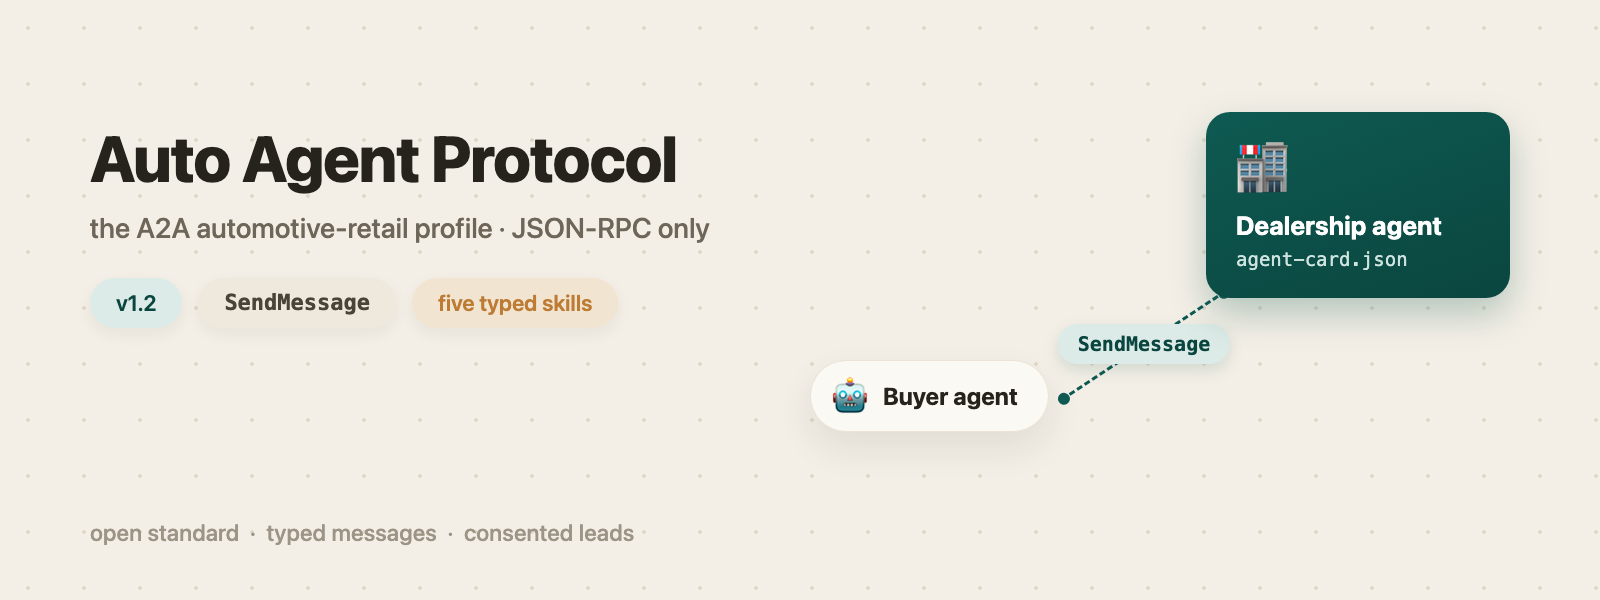
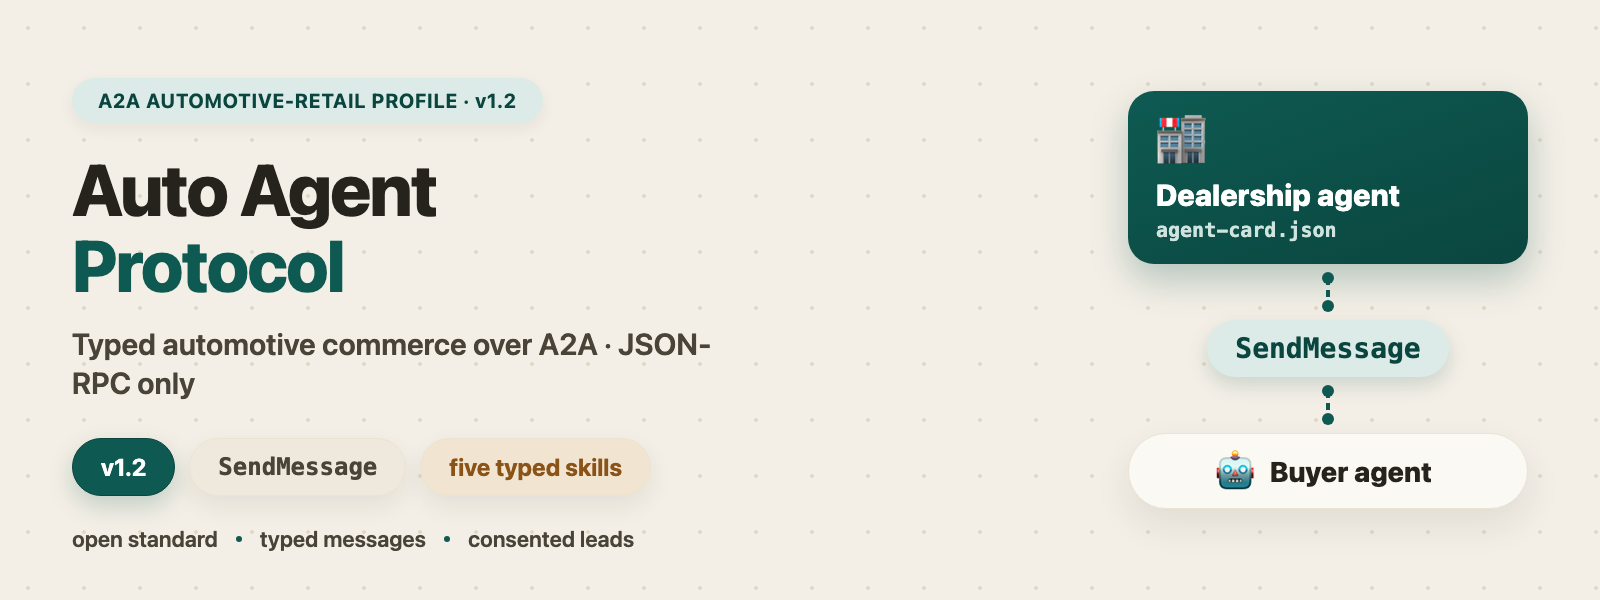
docs(v1.2): drop leftover inventory-class prose for vehicle_type

diff --git a/tools/img-src/aap-hero-banner.html b/tools/img-src/aap-hero-banner.html
@@ -14,39 +14,64 @@
     color: #26231c;
     position: relative;
   }
+  .code { font-family: ui-monospace, SFMono-Regular, Menlo, monospace; }
+
   .left {
     position: absolute;
-    left: 90px;
-    top: 124px;
-    width: 760px;
+    left: 72px;
+    top: 78px;
+    width: 720px;
+  }
+  .tag {
+    display: inline-block;
+    background: #dcebe7;
+    color: #0a463f;
+    font-weight: 700;
+    font-size: 20px;
+    padding: 11px 26px;
+    border-radius: 999px;
+    letter-spacing: .04em;
+    box-shadow: 0 6px 16px rgba(38,35,28,.06);
   }
   h1 {
-    font-size: 64px;
+    margin-top: 28px;
+    font-size: 72px;
     font-weight: 800;
-    letter-spacing: -1px;
-    line-height: 1.08;
+    letter-spacing: -1.6px;
+    line-height: 1.05;
     color: #26231c;
   }
+  h1 .accent { color: #0e5a52; }
   .subtitle {
-    margin-top: 18px;
-    font-size: 28px;
-    color: #6f665a;
-    font-weight: 500;
+    margin-top: 22px;
+    font-size: 30px;
+    color: #4a4338;
+    font-weight: 600;
+    line-height: 1.3;
+    max-width: 640px;
   }
   .pills {
-    margin-top: 34px;
+    margin-top: 36px;
     display: flex;
-    gap: 16px;
+    gap: 14px;
+    flex-wrap: wrap;
   }
   .pill {
     border-radius: 999px;
-    padding: 12px 26px;
-    font-size: 22px;
-    font-weight: 600;
-    background: #dcebe7;
+    padding: 14px 28px;
+    font-size: 24px;
+    font-weight: 700;
+    background: #fbf9f4;
     color: #0a463f;
-    box-shadow: 0 6px 16px rgba(38,35,28,.06);
+    border: 1px solid #ece4d3;
+    box-shadow: 0 10px 24px rgba(38,35,28,.08);
     white-space: nowrap;
+  }
+  .pill.teal {
+    background: #0e5a52;
+    color: #fff;
+    border-color: #0a463f;
+    box-shadow: 0 10px 24px rgba(14,90,82,.22);
   }
   .pill.mono {
     font-family: ui-monospace, SFMono-Regular, Menlo, monospace;
@@ -55,52 +80,99 @@
   }
   .pill.bronze {
     background: #f1e4d0;
-    color: #bd7b34;
+    color: #8a5418;
   }
   .tagline {
     position: absolute;
-    left: 90px;
-    bottom: 54px;
-    font-size: 23px;
-    color: #9c9486;
-    font-weight: 500;
-    letter-spacing: .2px;
+    left: 72px;
+    bottom: 48px;
+    display: flex;
+    align-items: center;
+    gap: 18px;
+    font-size: 22px;
+    color: #4a4338;
+    font-weight: 600;
+    letter-spacing: .1px;
   }
-  /* Right composition */
+  .tagline .sep {
+    width: 6px;
+    height: 6px;
+    border-radius: 50%;
+    background: #0e5a52;
+    flex: none;
+  }
+
+  /* Right composition — vertical stack, no overlapping chips */
   .scene {
     position: absolute;
-    right: 90px;
+    right: 72px;
     top: 0;
-    width: 700px;
+    width: 400px;
     height: 600px;
+    display: flex;
+    flex-direction: column;
+    align-items: center;
+    justify-content: center;
+    gap: 14px;
   }
   .dealer-card {
-    position: absolute;
-    right: 0;
-    top: 112px;
-    width: 304px;
+    width: 100%;
     background: linear-gradient(160deg, #0e5a52, #0a463f);
-    border-radius: 24px;
+    border-radius: 26px;
     box-shadow: 0 16px 36px rgba(14,90,82,.28);
-    padding: 30px 30px 28px;
+    padding: 24px 28px 22px;
     color: #ffffff;
+    flex: none;
   }
-  .dealer-card .emoji { font-size: 52px; line-height: 1; }
+  .dealer-card .emoji { font-size: 50px; line-height: 1; }
   .dealer-card .name {
-    margin-top: 16px;
-    font-size: 26px;
-    font-weight: 700;
+    margin-top: 12px;
+    font-size: 30px;
+    font-weight: 800;
   }
   .dealer-card .meta {
-    margin-top: 8px;
-    font-size: 19px;
+    margin-top: 6px;
+    font-size: 20px;
     color: #cfe4df;
     font-family: ui-monospace, SFMono-Regular, Menlo, monospace;
+    font-weight: 600;
+  }
+  .connector {
+    width: 4px;
+    height: 28px;
+    background: repeating-linear-gradient(
+      to bottom,
+      #0e5a52 0 7px,
+      transparent 7px 12px
+    );
+    border: none;
+    position: relative;
+    flex: none;
+  }
+  .connector .dot-a, .connector .dot-b {
+    position: absolute;
+    left: 50%;
+    transform: translateX(-50%);
+    width: 12px;
+    height: 12px;
+    border-radius: 50%;
+    background: #0e5a52;
+  }
+  .connector .dot-a { top: -6px; }
+  .connector .dot-b { bottom: -6px; }
+  .send-label {
+    background: #dcebe7;
+    color: #0a463f;
+    border-radius: 999px;
+    padding: 12px 28px;
+    font-size: 28px;
+    font-weight: 800;
+    font-family: ui-monospace, SFMono-Regular, Menlo, monospace;
+    box-shadow: 0 8px 20px rgba(14,90,82,.18);
+    white-space: nowrap;
+    flex: none;
   }
   .agent-chip {
-    position: absolute;
-    left: 0;
-    top: 360px;
     display: flex;
     align-items: center;
     gap: 14px;
@@ -109,74 +181,52 @@
     padding: 16px 30px 16px 20px;
     box-shadow: 0 16px 36px rgba(38,35,28,.09);
     border: 1px solid #ece4d3;
+    width: 100%;
+    justify-content: center;
+    flex: none;
   }
-  .agent-chip .emoji { font-size: 38px; line-height: 1; }
-  .agent-chip .label { font-size: 24px; font-weight: 700; color: #26231c; white-space: nowrap; }
-  /* Connector line from agent chip to dealer card */
-  .connector {
-    position: absolute;
-    left: 252px;
-    top: 398px;
-    width: 196px;
-    height: 0;
-    border-top: 3px dashed #0e5a52;
-    transform: rotate(-33.5deg);
-    transform-origin: left center;
-  }
-  .connector .dot-a, .connector .dot-b {
-    position: absolute;
-    top: -7px;
-    width: 12px;
-    height: 12px;
-    border-radius: 50%;
-    background: #0e5a52;
-  }
-  .connector .dot-a { left: -4px; }
-  .connector .dot-b { right: -4px; }
-  .send-label {
-    position: absolute;
-    left: 334px;
-    top: 344px;
-    transform: translate(-50%, -50%);
-    background: #dcebe7;
-    color: #0a463f;
-    border-radius: 999px;
-    padding: 8px 20px;
-    font-size: 20px;
-    font-weight: 700;
-    font-family: ui-monospace, SFMono-Regular, Menlo, monospace;
-    box-shadow: 0 6px 16px rgba(14,90,82,.15);
-    white-space: nowrap;
-  }
+  .agent-chip .emoji { font-size: 42px; line-height: 1; }
+  .agent-chip .label { font-size: 28px; font-weight: 800; color: #26231c; white-space: nowrap; }
 </style>
 </head>
 <body>
   <div class="left">
-    <h1>Auto Agent Protocol</h1>
-    <div class="subtitle">the A2A automotive-retail profile &middot; JSON-RPC only</div>
+    <div class="tag">A2A AUTOMOTIVE-RETAIL PROFILE &middot; v1.2</div>
+    <h1>Auto Agent<br><span class="accent">Protocol</span></h1>
+    <div class="subtitle">Typed automotive commerce over A2A &middot; JSON-RPC only</div>
     <div class="pills">
-      <div class="pill">v1.2</div>
+      <div class="pill teal">v1.2</div>
       <div class="pill mono">SendMessage</div>
       <div class="pill bronze">five typed skills</div>
     </div>
   </div>
 
-  <div class="tagline">open standard&nbsp;&nbsp;&middot;&nbsp;&nbsp;typed messages&nbsp;&nbsp;&middot;&nbsp;&nbsp;consented leads</div>
+  <div class="tagline">
+    <span>open standard</span>
+    <span class="sep"></span>
+    <span>typed messages</span>
+    <span class="sep"></span>
+    <span>consented leads</span>
+  </div>
 
   <div class="scene">
-    <div class="agent-chip">
-      <span class="emoji">&#129302;</span>
-      <span class="label">Buyer agent</span>
+    <div class="dealer-card">
+      <div class="emoji">&#127980;</div>
+      <div class="name">Dealership agent</div>
+      <div class="meta">agent-card.json</div>
     </div>
     <div class="connector">
       <span class="dot-a"></span>
       <span class="dot-b"></span>
     </div>
     <div class="send-label">SendMessage</div>
-    <div class="dealer-card">
-      <div class="emoji">&#127980;</div>
-      <div class="name">Dealership agent</div>
-      <div class="meta">agent-card.json</div>
+    <div class="connector">
+      <span class="dot-a"></span>
+      <span class="dot-b"></span>
+    </div>
+    <div class="agent-chip">
+      <span class="emoji">&#129302;</span>
+      <span class="label">Buyer agent</span>
     </div>
   </div>
 </body>

diff --git a/packages/types/src/index.d.ts b/packages/types/src/index.d.ts
@@ -164,11 +164,11 @@ export interface Vehicle {
    */
   highway_mpg?: number;
   /**
-   * Estimated electric range in miles. The primary range spec for BEV/PHEV units across ALL inventory classes — electric cars and electric motorcycles alike (e.g. 113 for an electric standard motorcycle, 300 for an EV car).
+   * Estimated electric range in miles. The primary range spec for BEV/PHEV units across any vehicle_type — electric cars and electric motorcycles alike (e.g. 113 for an electric standard motorcycle, 300 for an EV car).
    */
   electric_range_mi?: number;
   /**
-   * Usable battery energy capacity in kilowatt-hours (kWh). Generic electric field (any inventory class) for BEV/PHEV units. E.g. 10.5 (compact electric motorcycle), 15.4 (larger electric motorcycle).
+   * Usable battery energy capacity in kilowatt-hours (kWh). Generic electric field (any vehicle_type) for BEV/PHEV units. E.g. 10.5 (compact electric motorcycle), 15.4 (larger electric motorcycle).
    */
   battery_kwh?: number;
   /**
@@ -535,11 +535,11 @@ export interface Vehicle1 {
    */
   highway_mpg?: number;
   /**
-   * Estimated electric range in miles. The primary range spec for BEV/PHEV units across ALL inventory classes — electric cars and electric motorcycles alike (e.g. 113 for an electric standard motorcycle, 300 for an EV car).
+   * Estimated electric range in miles. The primary range spec for BEV/PHEV units across any vehicle_type — electric cars and electric motorcycles alike (e.g. 113 for an electric standard motorcycle, 300 for an EV car).
    */
   electric_range_mi?: number;
   /**
-   * Usable battery energy capacity in kilowatt-hours (kWh). Generic electric field (any inventory class) for BEV/PHEV units. E.g. 10.5 (compact electric motorcycle), 15.4 (larger electric motorcycle).
+   * Usable battery energy capacity in kilowatt-hours (kWh). Generic electric field (any vehicle_type) for BEV/PHEV units. E.g. 10.5 (compact electric motorcycle), 15.4 (larger electric motorcycle).
    */
   battery_kwh?: number;
   /**
@@ -1098,7 +1098,7 @@ export interface Rooftop {
    */
   notes?: string;
   /**
-   * Services this rooftop offers, as free-text tags (e.g. 'sales', 'service', 'parts', 'financing', 'trade_in', 'delivery'). Rooftops MAY also advertise which inventory classes they sell with tags such as 'motorcycle_sales' or 'powersports', so buyer agents know the inventory class before searching.
+   * Services this rooftop offers, as free-text tags (e.g. 'sales', 'service', 'parts', 'financing', 'trade_in', 'delivery'). Rooftops MAY also advertise which vehicle types they sell with tags such as 'motorcycle_sales' or 'powersports', so buyer agents know the vehicle_type mix before searching.
    */
   capabilities?: string[];
 }

diff --git a/static/v1.2/types.d.ts b/static/v1.2/types.d.ts
@@ -164,11 +164,11 @@ export interface Vehicle {
    */
   highway_mpg?: number;
   /**
-   * Estimated electric range in miles. The primary range spec for BEV/PHEV units across ALL inventory classes — electric cars and electric motorcycles alike (e.g. 113 for an electric standard motorcycle, 300 for an EV car).
+   * Estimated electric range in miles. The primary range spec for BEV/PHEV units across any vehicle_type — electric cars and electric motorcycles alike (e.g. 113 for an electric standard motorcycle, 300 for an EV car).
    */
   electric_range_mi?: number;
   /**
-   * Usable battery energy capacity in kilowatt-hours (kWh). Generic electric field (any inventory class) for BEV/PHEV units. E.g. 10.5 (compact electric motorcycle), 15.4 (larger electric motorcycle).
+   * Usable battery energy capacity in kilowatt-hours (kWh). Generic electric field (any vehicle_type) for BEV/PHEV units. E.g. 10.5 (compact electric motorcycle), 15.4 (larger electric motorcycle).
    */
   battery_kwh?: number;
   /**
@@ -535,11 +535,11 @@ export interface Vehicle1 {
    */
   highway_mpg?: number;
   /**
-   * Estimated electric range in miles. The primary range spec for BEV/PHEV units across ALL inventory classes — electric cars and electric motorcycles alike (e.g. 113 for an electric standard motorcycle, 300 for an EV car).
+   * Estimated electric range in miles. The primary range spec for BEV/PHEV units across any vehicle_type — electric cars and electric motorcycles alike (e.g. 113 for an electric standard motorcycle, 300 for an EV car).
    */
   electric_range_mi?: number;
   /**
-   * Usable battery energy capacity in kilowatt-hours (kWh). Generic electric field (any inventory class) for BEV/PHEV units. E.g. 10.5 (compact electric motorcycle), 15.4 (larger electric motorcycle).
+   * Usable battery energy capacity in kilowatt-hours (kWh). Generic electric field (any vehicle_type) for BEV/PHEV units. E.g. 10.5 (compact electric motorcycle), 15.4 (larger electric motorcycle).
    */
   battery_kwh?: number;
   /**
@@ -1098,7 +1098,7 @@ export interface Rooftop {
    */
   notes?: string;
   /**
-   * Services this rooftop offers, as free-text tags (e.g. 'sales', 'service', 'parts', 'financing', 'trade_in', 'delivery'). Rooftops MAY also advertise which inventory classes they sell with tags such as 'motorcycle_sales' or 'powersports', so buyer agents know the inventory class before searching.
+   * Services this rooftop offers, as free-text tags (e.g. 'sales', 'service', 'parts', 'financing', 'trade_in', 'delivery'). Rooftops MAY also advertise which vehicle types they sell with tags such as 'motorcycle_sales' or 'powersports', so buyer agents know the vehicle_type mix before searching.
    */
   capabilities?: string[];
 }

diff --git a/docs/skills/dealer-information.md b/docs/skills/dealer-information.md
@@ -98,7 +98,7 @@ The response wraps a `DealerInformation` object inside the standard AAP response
 | `rooftop.schedules[]` | object[] | no | Named weekly hours; each entry is `{ name, value }` where `value` maps each weekday to `{ open, close }` (24h `HH:MM`) or `null` when closed. |
 | `rooftop.timezone` | string | no | IANA timezone identifier (e.g. `America/Los_Angeles`). |
 | `rooftop.notes` | string | no | Free-text notes (e.g. "closed major holidays"). |
-| `rooftop.capabilities[]` | string[] | no | Service capabilities, e.g. `sales`, `service`, `parts`, `financing`, `trade_in`, `delivery`. Rooftops MAY also advertise which inventory classes they sell with tags such as `motorcycle_sales` or `powersports`, so buyer agents know a rooftop's inventory classes before searching. |
+| `rooftop.capabilities[]` | string[] | no | Service capabilities, e.g. `sales`, `service`, `parts`, `financing`, `trade_in`, `delivery`. Rooftops MAY also advertise which vehicle types they sell with tags such as `motorcycle_sales` or `powersports`, so buyer agents know a rooftop's `vehicle_type` mix before searching. |
 
 ## Full example
 
